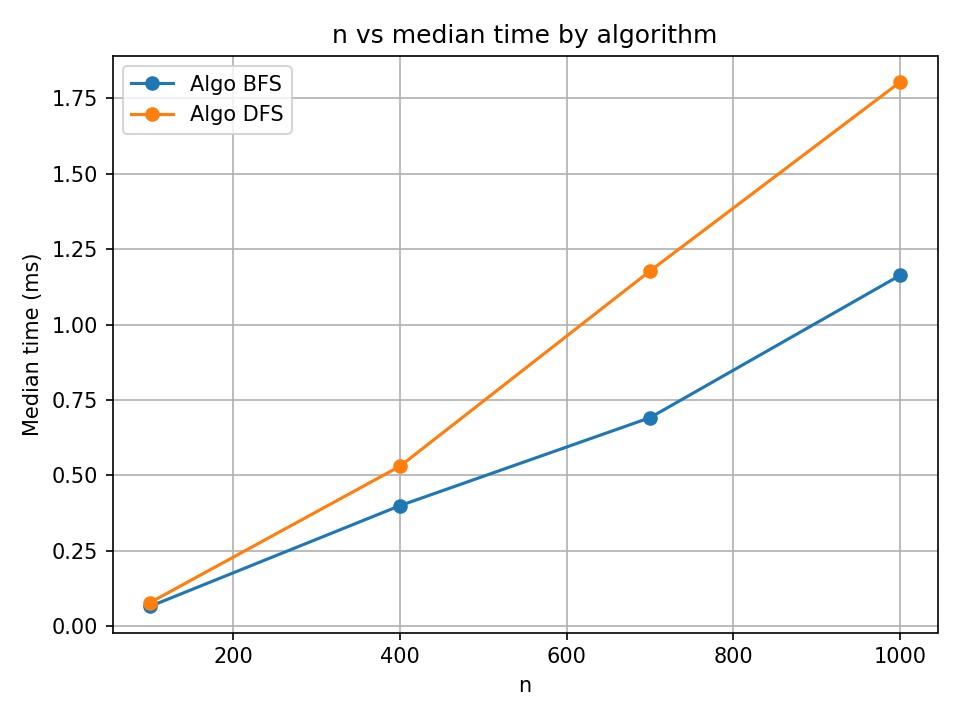
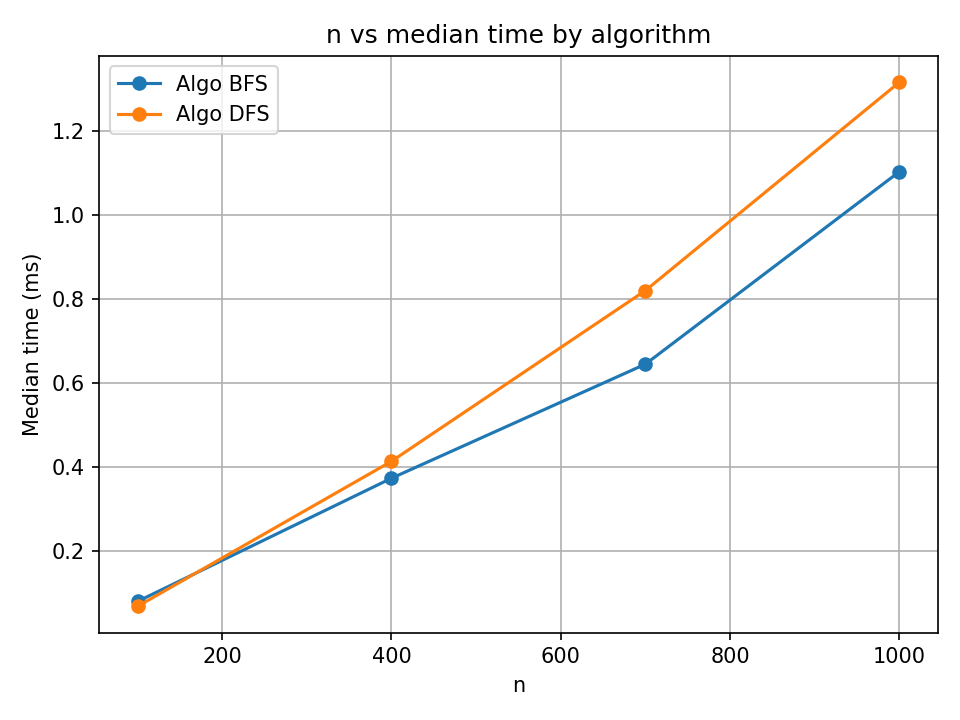
Resize Graph dan Footprint Runpy

diff --git a/run.py b/run.py
@@ -82,7 +82,7 @@ def main() :
             print("A. Atur Jumlah Pengulangan Simulasi")
             print("B. Atur Mahasiswa Asal")
             print("C. Atur Jumlah Seed")
-            print("D. Eksekusi  Eksperimen")
+            print("D. Eksekusi Eksperimen")
             print("E. Keluar Program")
             jawab = input(">> ").lower()
             os.system("cls")
@@ -216,7 +216,7 @@ def main() :
             print("C. Lihat Graph dan Footprint Transversal")
             print("D. Lihat Plot Tabel dan Uji Statistik")
             print("E. Keluar Program")
-            print("F. Ulang Simulasi")
+            print("F. Ulang Eksperimen")
             jawab = input(">> ").lower()
             os.system("cls")
             match(jawab) :
@@ -280,9 +280,9 @@ def main() :
                                 G = nx.Graph(graph_nama)
                                 # pos = nx.nx_pydot.graphviz_layout(G, prog="dot")
                                 pos = nx.spring_layout(G, k=2.5, iterations=200)
-                                plt.figure(figsize=(20, 20))
-                                nx.draw(G, pos, with_labels=True, node_size=600, font_size=15, font_color = "black", font_weight='bold',edge_color="red")
-                                plt.title(f"Graph N({jumlah}) Seed({seeds})",fontsize=30, fontweight='bold')
+                                plt.figure(figsize=(15, 15))
+                                nx.draw(G, pos, with_labels=True, node_size=300, font_size=7.5, font_color = "black", font_weight='bold',edge_color="red")
+                                plt.title(f"Graph N({jumlah}) Seed({seeds})",fontsize=15, fontweight='bold')
                                 plt.show()
 
                             case "b" :
@@ -322,22 +322,22 @@ def main() :
                                     for parent in parents:
                                         tree_reverse.add_edge(node_data[parent]["nama"], node_data[child]["nama"])
 
-                                plt.figure(figsize=(20, 20))
+                                plt.figure(figsize=(15, 15))
                                 pos = nx.nx_pydot.graphviz_layout(tree_reverse, prog="dot")
-                                nx.draw(tree_reverse, pos, with_labels=False, node_size=800, arrows=True,edge_color="red")
+                                nx.draw(tree_reverse, pos, with_labels=False, node_size=400, arrows=True,edge_color="red")
                                 for node, (x, y) in pos.items():
                                     plt.text(
                                         x,
                                         y,
                                         node,
-                                        fontsize=14,
+                                        fontsize=7,
                                         fontweight='bold',
                                         rotation=-45,
                                         ha='center',
                                         va='center',
                                         color='black'
                                     )
-                                plt.title(f"Footprint DFS N({jumlah}) Seed({seeds})",fontsize=30, fontweight='bold')
+                                plt.title(f"Footprint DFS N({jumlah}) Seed({seeds})",fontsize=15, fontweight='bold')
                                 plt.show()
 
                             case "c" :
@@ -377,22 +377,22 @@ def main() :
                                     for parent in parents:
                                         tree_reverse.add_edge(node_data[parent]["nama"], node_data[child]["nama"])
 
-                                plt.figure(figsize=(20, 20))
+                                plt.figure(figsize=(15, 15))
                                 pos = nx.nx_pydot.graphviz_layout(tree_reverse, prog="dot")
-                                nx.draw(tree_reverse, pos, with_labels=False, node_size=800, arrows=True,edge_color="red")
+                                nx.draw(tree_reverse, pos, with_labels=False, node_size=400, arrows=True,edge_color="red")
                                 for node, (x, y) in pos.items():
                                     plt.text(
                                         x,
                                         y,
                                         node,
-                                        fontsize=14,
+                                        fontsize=7,
                                         fontweight='bold',
                                         rotation=-45,
                                         ha='center',
                                         va='center',
                                         color='black'
                                     )
-                                plt.title(f"Footprint BFS N({jumlah}) Seed({seeds})",fontsize=30, fontweight='bold')
+                                plt.title(f"Footprint BFS N({jumlah}) Seed({seeds})",fontsize=15, fontweight='bold')
                                 plt.show()
                             
                             case "d" :
@@ -466,6 +466,7 @@ def main() :
                                         b=df[(df['n']==n)&(df['algo']=='BFS')]['time_ms'].values
                                         t,p=ttest_rel(a,b)
                                         print(f'n={n}: t={t:.3f}, p={p*100:.2f}%')
+                                    input("Tekan Enter Untuk Lanjut...")
 
                                 except Exception as e:
                                     print('SciPy tidak tersedia; lewati uji t berpasangan.', e)

diff --git a/results/summary.tex b/results/summary.tex
@@ -2,13 +2,13 @@
 \toprule
 algo & n & Mean (ms) & Median (ms) & SD (ms) \\
 \midrule
-BFS & 100 & 0.089260 & 0.066500 & 0.048642 \\
-BFS & 400 & 0.481320 & 0.400200 & 0.199765 \\
-BFS & 700 & 0.768800 & 0.691500 & 0.152379 \\
-BFS & 1000 & 1.168880 & 1.162800 & 0.186184 \\
-DFS & 100 & 0.092020 & 0.079000 & 0.039935 \\
-DFS & 400 & 0.567880 & 0.530800 & 0.080949 \\
-DFS & 700 & 1.206060 & 1.177300 & 0.254131 \\
-DFS & 1000 & 1.883120 & 1.802600 & 0.324697 \\
+BFS & 100 & 0.086860 & 0.067000 & 0.033669 \\
+BFS & 400 & 0.444040 & 0.381500 & 0.149327 \\
+BFS & 700 & 0.773860 & 0.735000 & 0.101565 \\
+BFS & 1000 & 10.755400 & 1.215100 & 21.380466 \\
+DFS & 100 & 0.085140 & 0.076300 & 0.025895 \\
+DFS & 400 & 0.458520 & 0.446000 & 0.063400 \\
+DFS & 700 & 1.026380 & 0.910900 & 0.211001 \\
+DFS & 1000 & 1.657020 & 1.516600 & 0.405803 \\
 \bottomrule
 \end{tabular}
